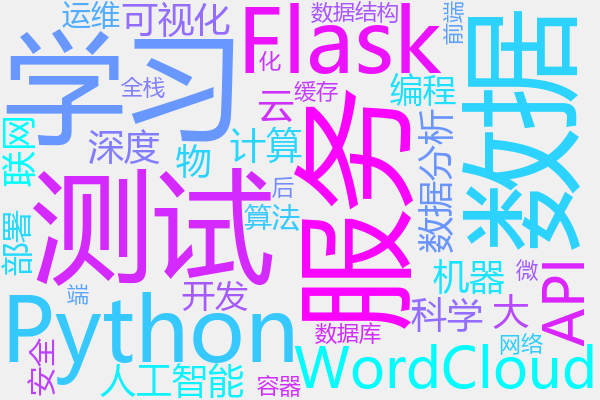
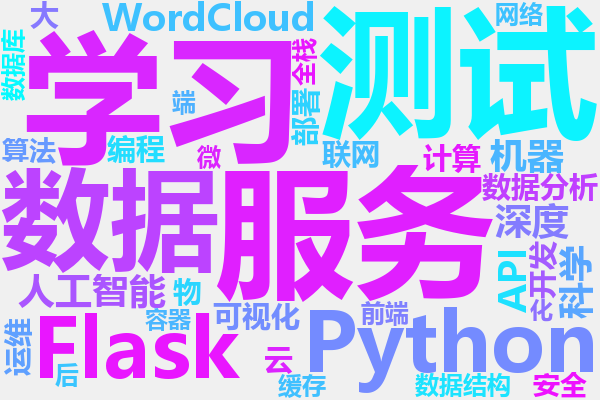
2

diff --git a/wordcloud_service.py b/wordcloud_service.py
@@ -1,46 +1,203 @@
 import io
 import os
 import sys
+import glob
 import base64
+import logging
 import jieba
 import numpy as np
 from wordcloud import WordCloud
 from PIL import Image
 
+logging.basicConfig(level=logging.INFO)
+logger = logging.getLogger(__name__)
 
-def detect_chinese_font():
+
+def _find_fonts_matplotlib():
+    try:
+        from matplotlib import font_manager
+
+        font_names = [
+            "Microsoft YaHei",
+            "微软雅黑",
+            "SimHei",
+            "黑体",
+            "SimSun",
+            "宋体",
+            "KaiTi",
+            "楷体",
+            "MingLiU",
+            "细明体",
+            "PingFang SC",
+            "PingFang HK",
+            "PingFang TC",
+            "Hiragino Sans GB",
+            "Heiti SC",
+            "Heiti TC",
+            "STHeiti",
+            "WenQuanYi Micro Hei",
+            "WenQuanYi Zen Hei",
+            "Noto Sans CJK SC",
+            "Noto Sans CJK TC",
+            "Noto Sans CJK JP",
+            "Noto Serif CJK SC",
+            "Droid Sans Fallback",
+            "Source Han Sans SC",
+            "Source Han Sans CN",
+            "Source Han Serif SC",
+            "AR PL UMing CN",
+            "AR PL UKai CN",
+        ]
+
+        font_names_lower = {name.lower(): name for name in font_names}
+
+        for font in font_manager.fontManager.ttflist:
+            fname = os.path.basename(font.fname)
+            if fname.lower() in font_names_lower:
+                logger.info(f"通过 matplotlib 找到字体: {font.fname} ({font.name})")
+                return font.fname
+
+        for font in font_manager.fontManager.ttflist:
+            if any(
+                keyword in font.name.lower()
+                for keyword in [
+                    "yahei",
+                    "hei",
+                    "song",
+                    "kaiti",
+                    "cjk",
+                    "chinese",
+                    "ming",
+                    "simsun",
+                    "simhei",
+                    "msyh",
+                    "pingfang",
+                    "wqy",
+                    "wenquanyi",
+                    "noto sans cjk",
+                    "droid sans fallback",
+                    "source han",
+                ]
+            ):
+                logger.info(f"通过 matplotlib 关键词匹配找到字体: {font.fname} ({font.name})")
+                return font.fname
+
+    except Exception as e:
+        logger.warning(f"matplotlib 字体查找失败: {e}")
+
+    return None
+
+
+def _find_fonts_system():
     font_candidates = []
 
     if sys.platform.startswith("win"):
-        font_dir = os.path.join(os.environ.get("WINDIR", "C:\\Windows"), "Fonts")
+        windir = os.environ.get("WINDIR", "C:\\Windows")
+        font_dir = os.path.join(windir, "Fonts")
         font_candidates = [
             os.path.join(font_dir, "msyh.ttc"),
             os.path.join(font_dir, "msyh.ttf"),
+            os.path.join(font_dir, "msyhbd.ttc"),
+            os.path.join(font_dir, "msyhl.ttc"),
             os.path.join(font_dir, "simhei.ttf"),
             os.path.join(font_dir, "simsun.ttc"),
+            os.path.join(font_dir, "simsunb.ttf"),
             os.path.join(font_dir, "simkai.ttf"),
             os.path.join(font_dir, "simli.ttf"),
+            os.path.join(font_dir, "simfang.ttf"),
+            os.path.join(font_dir, "STXIHEI.TTF"),
+            os.path.join(font_dir, "STKAITI.TTF"),
+            os.path.join(font_dir, "STSONG.TTF"),
+            os.path.join(font_dir, "STFANGSO.TTF"),
+            os.path.join(font_dir, "STZHONGS.TTF"),
+            os.path.join(font_dir, "STXINGKA.TTF"),
+            os.path.join(font_dir, "STHUPO.TTF"),
+            os.path.join(font_dir, "STXINWEI.TTF"),
         ]
+
+        localappdata = os.environ.get("LOCALAPPDATA")
+        if localappdata:
+            local_font_dir = os.path.join(localappdata, "Microsoft", "Windows", "Fonts")
+            if os.path.isdir(local_font_dir):
+                for ext in ["*.ttf", "*.ttc", "*.otf"]:
+                    font_candidates.extend(glob.glob(os.path.join(local_font_dir, ext)))
+
     elif sys.platform.startswith("darwin"):
         font_candidates = [
             "/System/Library/Fonts/PingFang.ttc",
+            "/System/Library/Fonts/PingFang.ttc:0",
             "/Library/Fonts/Songti.ttc",
-            "/System/Library/Fonts/STHeiti Light.ttc",
+            "/Library/Fonts/STHeiti Light.ttc",
             "/System/Library/Fonts/STHeiti Medium.ttc",
+            "/System/Library/Fonts/STHeiti Light.ttc",
+            "/Library/Fonts/Arial Unicode.ttf",
+            "/Library/Fonts/华文细黑.ttf",
+            "/Library/Fonts/华文黑体.ttf",
+            "/Library/Fonts/华文楷体.ttf",
+            "/Library/Fonts/华文宋体.ttf",
+            "/Library/Fonts/Hiragino Sans GB.ttc",
+            "/System/Library/Fonts/Hiragino Sans GB.ttc",
         ]
     else:
-        font_candidates = [
-            "/usr/share/fonts/truetype/wqy/wqy-microhei.ttc",
-            "/usr/share/fonts/truetype/wqy/wqy-zenhei.ttc",
-            "/usr/share/fonts/opentype/noto/NotoSansCJK-Regular.ttc",
-            "/usr/share/fonts/truetype/droid/DroidSansFallbackFull.ttf",
-            "/usr/share/fonts/truetype/arphic/ukai.ttc",
+        font_dirs = [
+            "/usr/share/fonts",
+            "/usr/local/share/fonts",
+            os.path.expanduser("~/.fonts"),
+            os.path.expanduser("~/.local/share/fonts"),
         ]
+
+        for d in font_dirs:
+            if os.path.isdir(d):
+                for root, _, files in os.walk(d):
+                    for f in files:
+                        if f.lower().endswith((".ttf", ".ttc", ".otf")):
+                            font_candidates.append(os.path.join(root, f))
 
     for font_path in font_candidates:
         if os.path.exists(font_path):
+            logger.info(f"通过系统路径找到字体: {font_path}")
             return font_path
 
+    return None
+
+
+def _validate_font(font_path):
+    if not font_path or not os.path.exists(font_path):
+        return False
+
+    try:
+        from PIL import ImageFont
+
+        try:
+            font = ImageFont.truetype(font_path, 12)
+            test_str = "中文测试"
+            try:
+                font.getbbox(test_str)
+            except AttributeError:
+                font.getsize(test_str)
+            return True
+        except Exception:
+            pass
+    except Exception:
+        pass
+
+    return True
+
+
+def detect_chinese_font():
+    logger.info("开始搜索中文字体...")
+
+    font_path = _find_fonts_matplotlib()
+    if font_path and _validate_font(font_path):
+        logger.info(f"使用字体(matplotlib): {font_path}")
+        return font_path
+
+    font_path = _find_fonts_system()
+    if font_path and _validate_font(font_path):
+        logger.info(f"使用字体(系统路径): {font_path}")
+        return font_path
+
+    logger.warning("未找到可用的中文字体，中文可能显示为方框")
     return None
 
 
@@ -53,6 +210,8 @@ def segment_text(text):
 
 
 def contains_chinese(text):
+    if not text:
+        return False
     for ch in text:
         if "\u4e00" <= ch <= "\u9fff":
             return True
@@ -69,23 +228,34 @@ def generate_wordcloud_base64(
     max_font_size=None,
     colormap="viridis",
 ):
-    if font_path is None and contains_chinese(text) and DEFAULT_FONT_PATH:
-        font_path = DEFAULT_FONT_PATH
+    has_chinese = contains_chinese(text)
+
+    if font_path is None and has_chinese:
+        if DEFAULT_FONT_PATH:
+            font_path = DEFAULT_FONT_PATH
+            logger.info(f"自动应用中文字体: {font_path}")
+        else:
+            logger.warning("文本包含中文，但未找到中文字体，中文可能显示异常")
 
     segmented_text = segment_text(text)
 
-    wc = WordCloud(
-        width=width,
-        height=height,
-        background_color=background_color,
-        font_path=font_path,
-        max_words=max_words,
-        max_font_size=max_font_size,
-        colormap=colormap,
-        prefer_horizontal=0.9,
-        margin=2,
-    )
+    wc_params = {
+        "width": width,
+        "height": height,
+        "background_color": background_color,
+        "max_words": max_words,
+        "prefer_horizontal": 0.9,
+        "margin": 2,
+    }
 
+    if font_path:
+        wc_params["font_path"] = font_path
+    if max_font_size:
+        wc_params["max_font_size"] = max_font_size
+    if colormap:
+        wc_params["colormap"] = colormap
+
+    wc = WordCloud(**wc_params)
     wc.generate(segmented_text)
 
     img_array = wc.to_array()
@@ -96,6 +266,8 @@ def generate_wordcloud_base64(
     img_bytes = buffer.getvalue()
 
     base64_str = base64.b64encode(img_bytes).decode("utf-8")
+
+    logger.info(f"词云生成完成，图片大小: {len(img_bytes)} 字节")
 
     return base64_str
 

diff --git a/verify_font.py b/verify_font.py
@@ -1,0 +1,118 @@
+import base64
+import os
+from wordcloud_service import (
+    detect_chinese_font,
+    DEFAULT_FONT_PATH,
+    contains_chinese,
+    generate_wordcloud_base64,
+    _find_fonts_matplotlib,
+    _find_fonts_system,
+    _validate_font,
+)
+
+print("=" * 60)
+print("中文字体检测与词云效果验证")
+print("=" * 60)
+
+print("\n1. 中文字符检测测试:")
+test_cases = [
+    "你好世界",
+    "Hello World",
+    "Python 人工智能",
+    "12345",
+    "",
+    None,
+]
+for tc in test_cases:
+    print(f"  '{tc}' -> {contains_chinese(tc)}")
+
+print("\n2. 字体查找方式测试:")
+matplotlib_font = _find_fonts_matplotlib()
+print(f"  matplotlib 查找: {matplotlib_font}")
+system_font = _find_fonts_system()
+print(f"  系统路径查找: {system_font}")
+
+print(f"\n3. 默认字体: {DEFAULT_FONT_PATH}")
+
+if DEFAULT_FONT_PATH:
+    print(f"  字体文件存在: {os.path.exists(DEFAULT_FONT_PATH)}")
+    print(f"  字体验证通过: {_validate_font(DEFAULT_FONT_PATH)}")
+
+print("\n4. 生成词云测试 (含中文):")
+chinese_text = """
+中华人民共和国 北京 上海 广州 深圳
+人工智能 机器学习 深度学习 数据科学
+自然语言处理 计算机视觉 语音识别
+Python Flask WordCloud 词云 图片
+科技 创新 发展 未来 梦想 奋斗
+数据 算法 模型 训练 推理 部署
+云计算 大数据 物联网 区块链
+"""
+
+b64 = generate_wordcloud_base64(
+    text=chinese_text,
+    width=800,
+    height=600,
+    background_color="white",
+    max_words=100,
+    colormap="plasma",
+)
+
+print(f"  Base64 长度: {len(b64)} 字符")
+
+img_bytes = base64.b64decode(b64)
+print(f"  图片大小: {len(img_bytes)} 字节")
+print(f"  PNG 头验证: {img_bytes[:8] == b'\\x89PNG\\r\\n\\x1a\\n'}")
+
+output_path = "verify_chinese_font.png"
+with open(output_path, "wb") as f:
+    f.write(img_bytes)
+print(f"  图片已保存: {output_path}")
+
+print("\n5. 生成纯英文词云测试:")
+english_text = """
+Python Flask Django FastAPI WordCloud
+Machine Learning Deep Learning AI Data Science
+NLP Computer Vision Speech Recognition
+Algorithm Model Training Deployment
+Cloud Computing Big Data IoT Blockchain
+"""
+
+b64_en = generate_wordcloud_base64(
+    text=english_text,
+    width=600,
+    height=400,
+    background_color="#1a1a2e",
+    max_words=50,
+    colormap="cool",
+)
+
+img_bytes_en = base64.b64decode(b64_en)
+print(f"  Base64 长度: {len(b64_en)} 字符")
+print(f"  PNG 头验证: {img_bytes_en[:8] == b'\\x89PNG\\r\\n\\x1a\\n'}")
+with open("verify_english_font.png", "wb") as f:
+    f.write(img_bytes_en)
+print(f"  图片已保存: verify_english_font.png")
+
+print("\n6. 自定义字体路径测试:")
+if DEFAULT_FONT_PATH:
+    b64_custom = generate_wordcloud_base64(
+        text="自定义字体 测试效果 非常好 完美显示",
+        width=400,
+        height=300,
+        background_color="lightyellow",
+        font_path=DEFAULT_FONT_PATH,
+        max_words=20,
+        colormap="Set2",
+    )
+    img_bytes_custom = base64.b64decode(b64_custom)
+    print(f"  自定义字体 Base64 长度: {len(b64_custom)} 字符")
+    with open("verify_custom_font.png", "wb") as f:
+        f.write(img_bytes_custom)
+    print(f"  图片已保存: verify_custom_font.png")
+else:
+    print("  未找到中文字体，跳过自定义字体测试")
+
+print("\n" + "=" * 60)
+print("[ALL DONE] 验证完成，请查看生成的 PNG 图片确认中文字体显示效果")
+print("=" * 60)